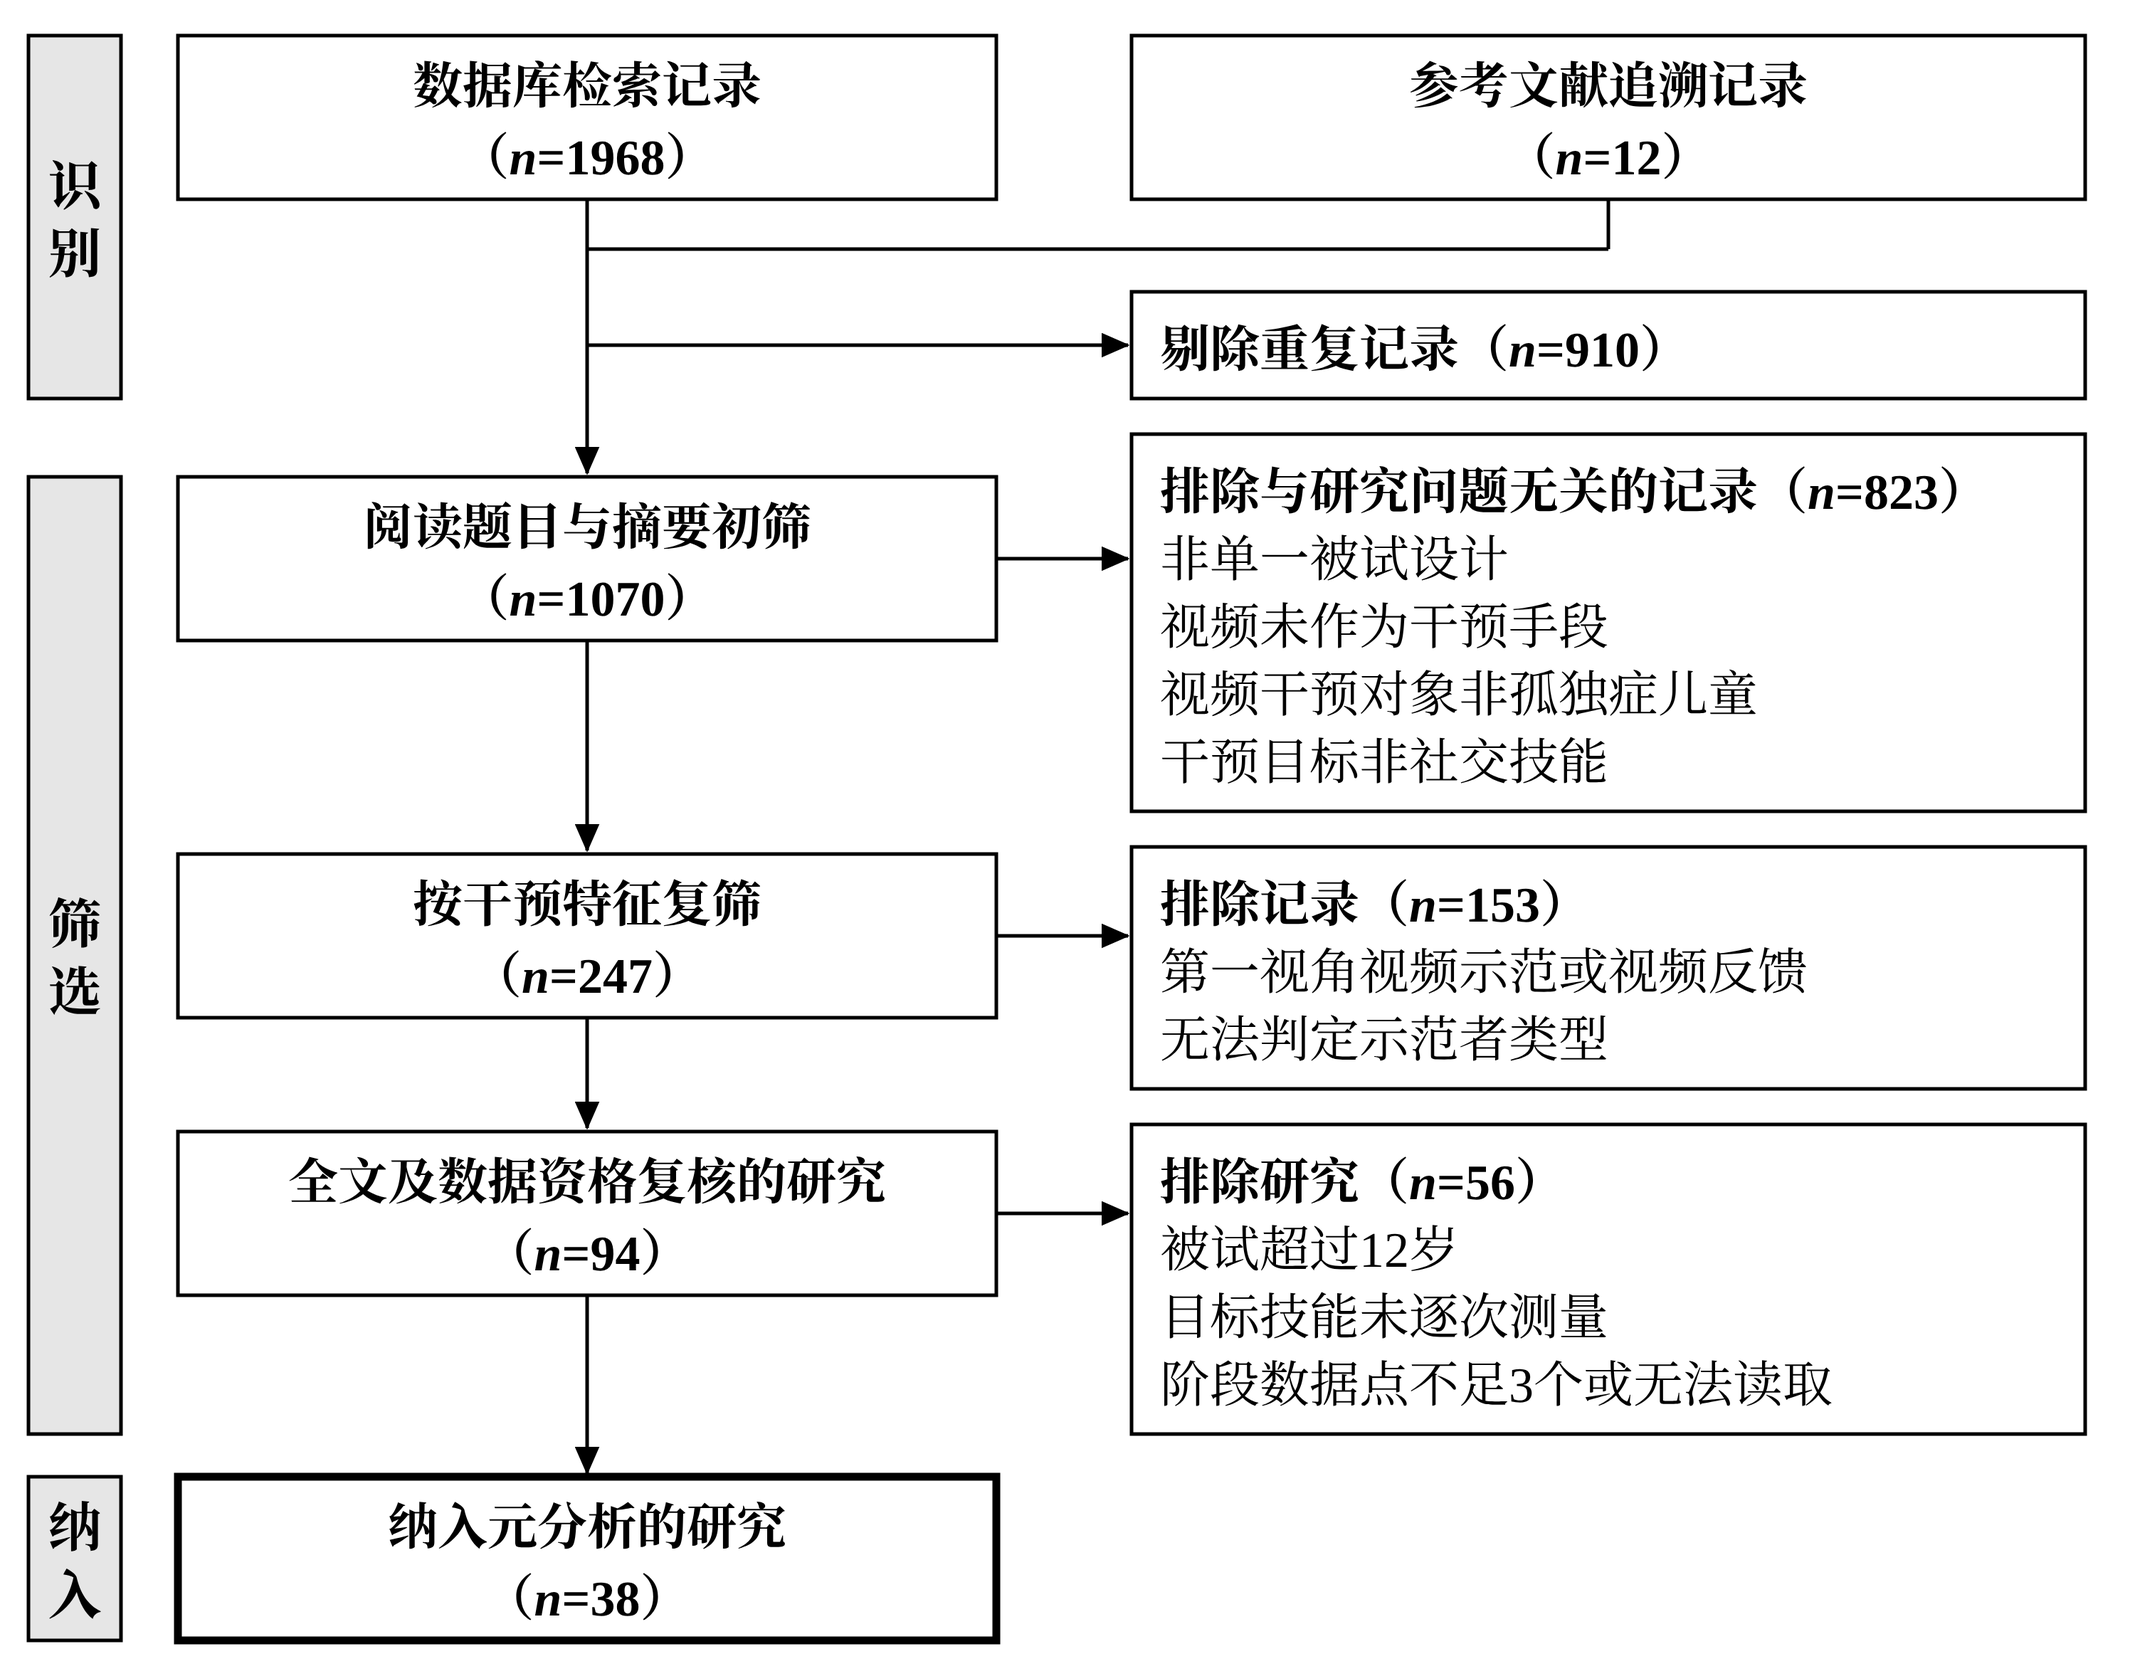
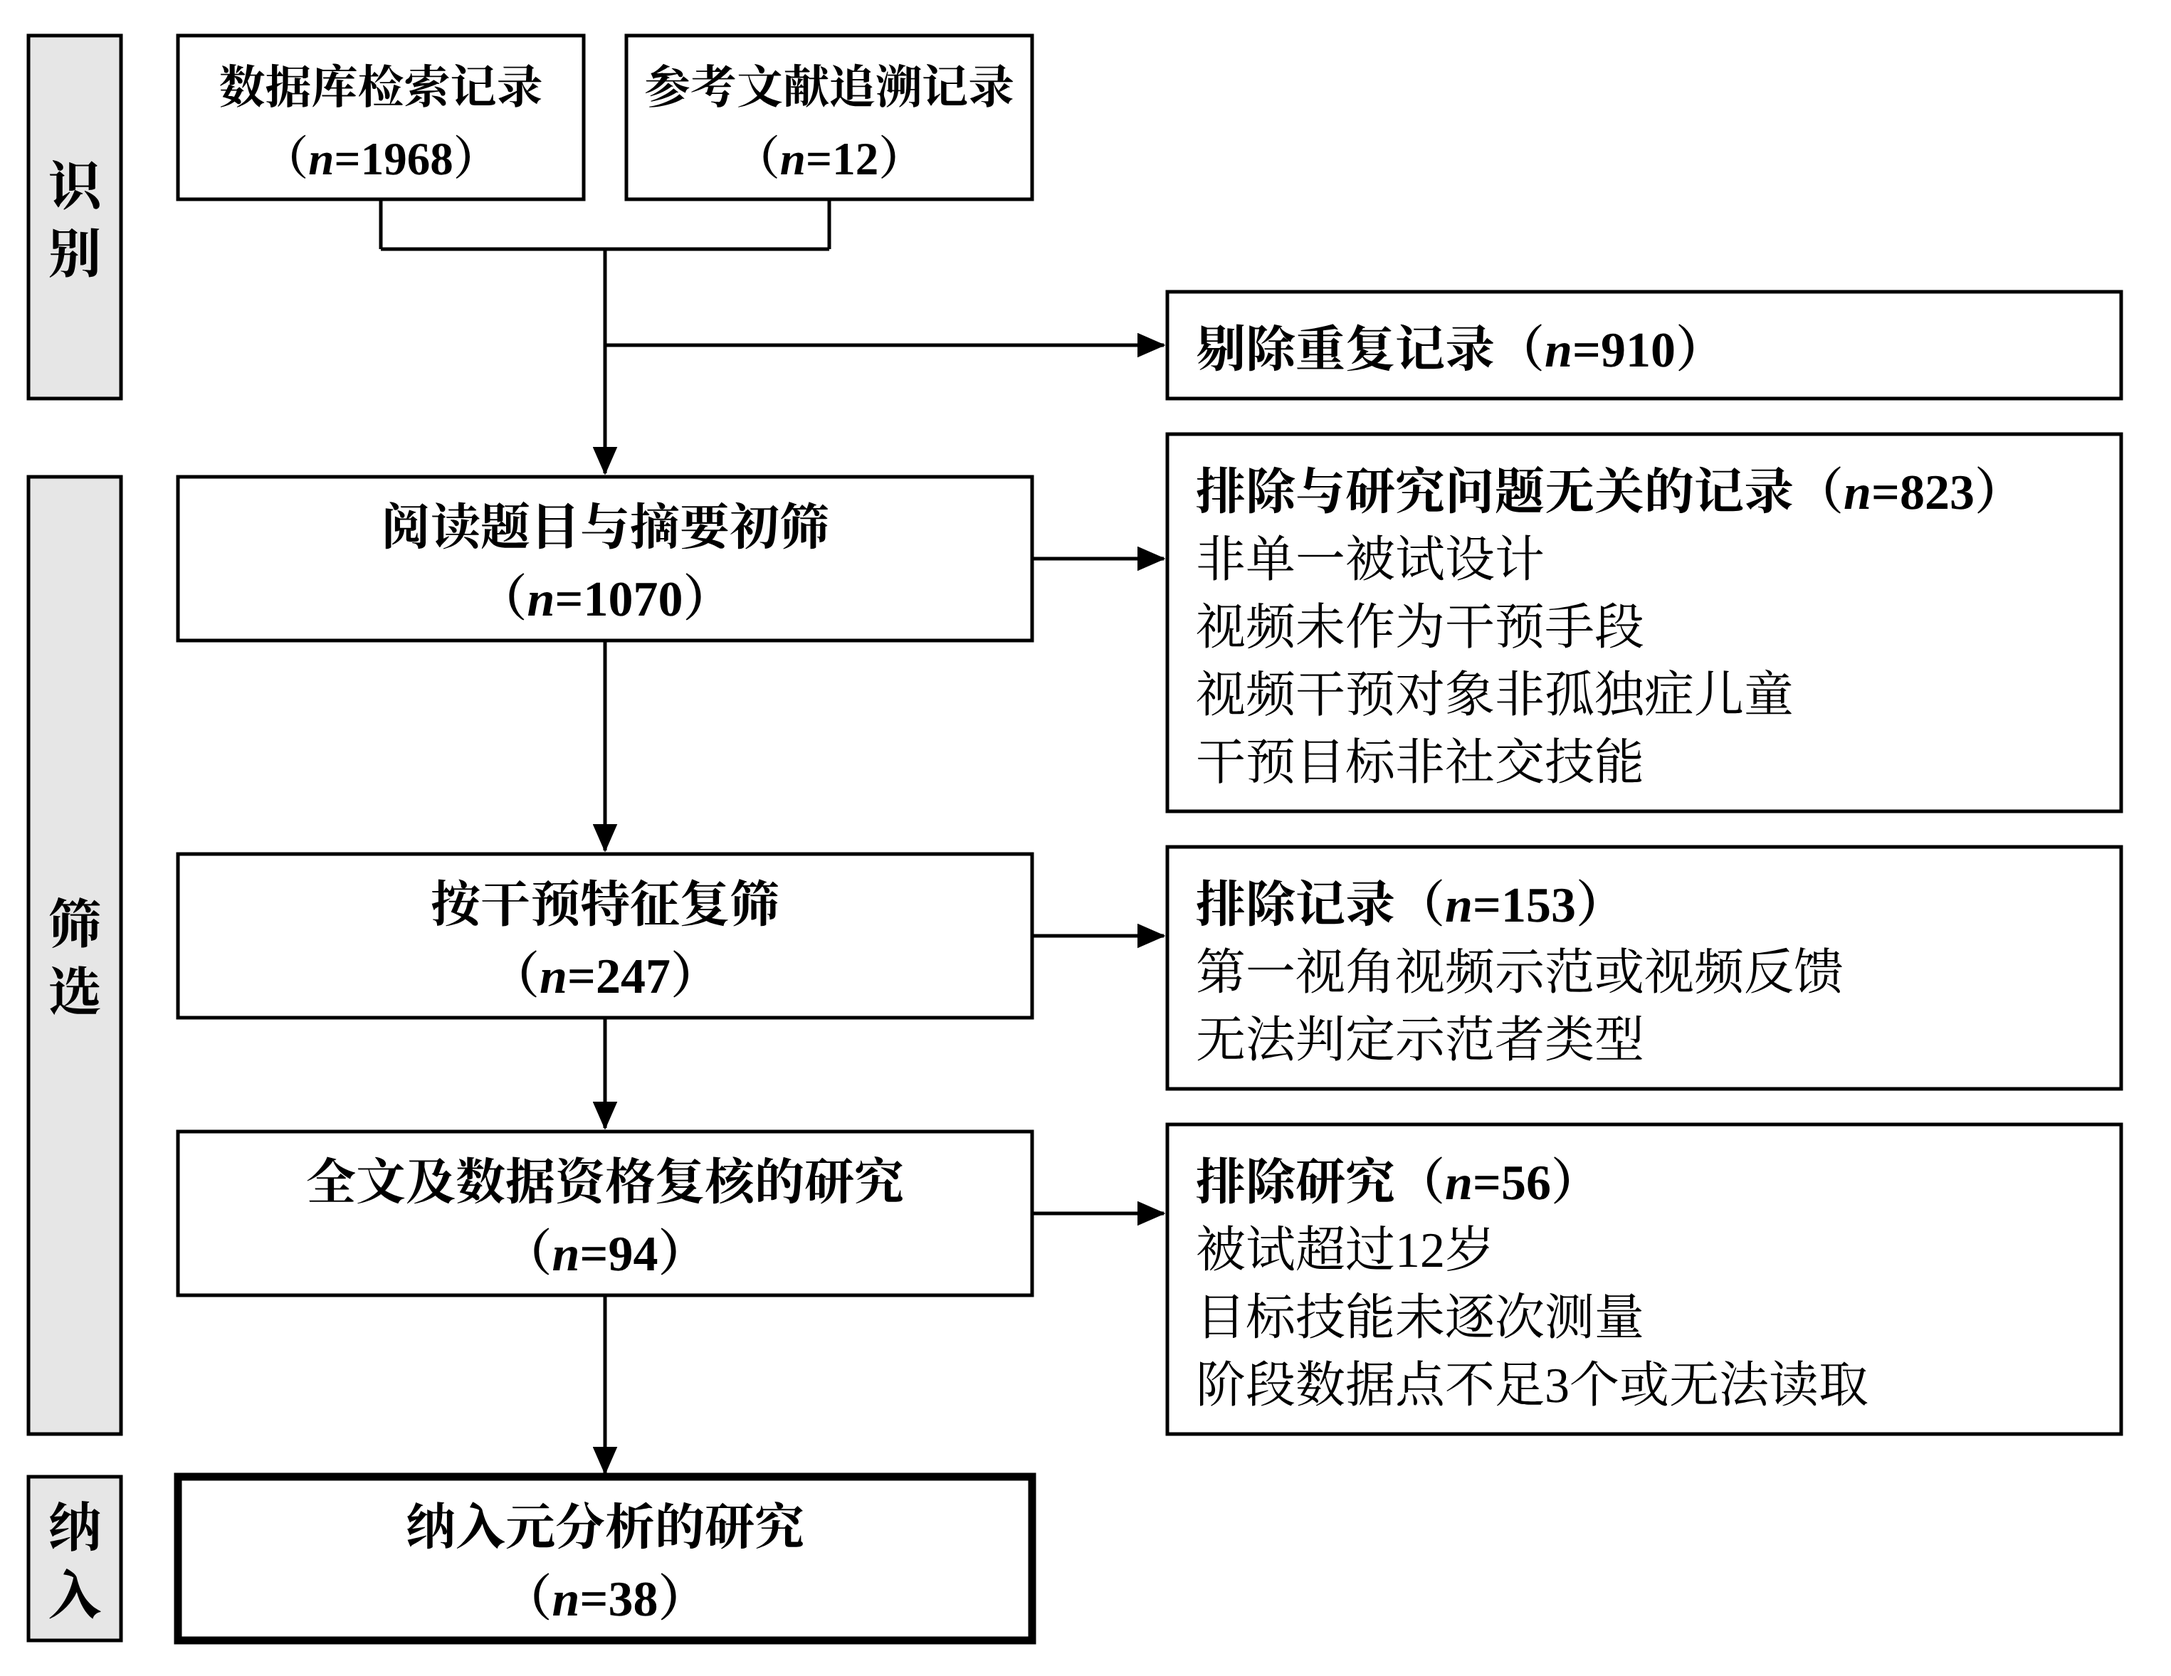
Place both source boxes side by side in main column
Claude-Session: https://claude.ai/code/session_01EqCS8pdH5dXcLV7bqheSma

diff --git a/文献筛选流程图/流程图.html b/文献筛选流程图/流程图.html
@@ -1,9 +1,10 @@
 <!doctype html>
 <html><head><meta charset="utf-8"><title>文献筛选流程图</title><style>body{margin:0;background:#fff}</style></head><body>
-<svg id="fig" width="600" height="471" viewBox="0 0 600 471" xmlns="http://www.w3.org/2000/svg">
+<svg id="fig" width="610" height="471" viewBox="0 0 610 471" xmlns="http://www.w3.org/2000/svg">
 <style>
   text{font-family:"Times New Roman","Liberation Serif","SimSun","宋体","Noto Serif CJK SC",serif;font-size:14px;fill:#000}
   text.b{font-weight:bold}
+  text.sm{font-size:13px}
   text.st{font-weight:bold;font-size:15px}
   .box{fill:#fff;stroke:#000;stroke-width:1}
   .thick{stroke-width:2.2}
@@ -12,53 +13,53 @@
   .ln{marker-end:url(#ar)}
 </style>
 <defs><marker id="ar" markerUnits="userSpaceOnUse" markerWidth="8" markerHeight="7" refX="7.5" refY="3.5" orient="auto"><path d="M0,0 L8,3.5 L0,7 z" fill="#000"/></marker></defs>
-<rect width="600" height="471" fill="#fff"/>
-<rect class="box" x="50" y="10" width="230" height="46"/>
-<text class="b" x="165.0" y="29" text-anchor="middle">数据库检索记录</text>
-<text class="b" x="165.0" y="49" text-anchor="middle">（<tspan font-style="italic">n</tspan>=<tspan>1968</tspan>）</text>
-<rect class="box" x="318" y="10" width="268" height="46"/>
-<text class="b" x="452.0" y="29" text-anchor="middle">参考文献追溯记录</text>
-<text class="b" x="452.0" y="49" text-anchor="middle">（<tspan font-style="italic">n</tspan>=<tspan>12</tspan>）</text>
-<line class="ln0" x1="165.0" y1="56" x2="165.0" y2="70"/>
-<line class="ln0" x1="452.0" y1="56" x2="452.0" y2="70"/>
-<line class="ln0" x1="452.0" y1="70" x2="165.0" y2="70"/>
-<rect class="box" x="318" y="82" width="268" height="30"/>
-<text class="b" x="326" y="103" text-anchor="start">剔除重复记录（<tspan font-style="italic">n</tspan>=<tspan>910</tspan>）</text>
-<line class="ln" x1="165.0" y1="97.0" x2="317" y2="97.0"/>
-<line class="ln" x1="165.0" y1="70" x2="165.0" y2="133"/>
-<rect class="box" x="50" y="134" width="230" height="46"/>
-<text class="b" x="165.0" y="153" text-anchor="middle">阅读题目与摘要初筛</text>
-<text class="b" x="165.0" y="173" text-anchor="middle">（<tspan font-style="italic">n</tspan>=<tspan>1070</tspan>）</text>
-<rect class="box" x="318" y="122" width="268" height="106"/>
-<text class="b" x="326" y="143" text-anchor="start">排除与研究问题无关的记录（<tspan font-style="italic">n</tspan>=<tspan>823</tspan>）</text>
-<text class="" x="326" y="162" text-anchor="start">非单一被试设计</text>
-<text class="" x="326" y="181" text-anchor="start">视频未作为干预手段</text>
-<text class="" x="326" y="200" text-anchor="start">视频干预对象非孤独症儿童</text>
-<text class="" x="326" y="219" text-anchor="start">干预目标非社交技能</text>
-<line class="ln" x1="280" y1="157.0" x2="317" y2="157.0"/>
-<line class="ln" x1="165.0" y1="180" x2="165.0" y2="239"/>
-<rect class="box" x="50" y="240" width="230" height="46"/>
-<text class="b" x="165.0" y="259" text-anchor="middle">按干预特征复筛</text>
-<text class="b" x="165.0" y="279" text-anchor="middle">（<tspan font-style="italic">n</tspan>=<tspan>247</tspan>）</text>
-<rect class="box" x="318" y="238" width="268" height="68"/>
-<text class="b" x="326" y="259" text-anchor="start">排除记录（<tspan font-style="italic">n</tspan>=<tspan>153</tspan>）</text>
-<text class="" x="326" y="278" text-anchor="start">第一视角视频示范或视频反馈</text>
-<text class="" x="326" y="297" text-anchor="start">无法判定示范者类型</text>
-<line class="ln" x1="280" y1="263.0" x2="317" y2="263.0"/>
-<line class="ln" x1="165.0" y1="286" x2="165.0" y2="317"/>
-<rect class="box" x="50" y="318" width="230" height="46"/>
-<text class="b" x="165.0" y="337" text-anchor="middle">全文及数据资格复核的研究</text>
-<text class="b" x="165.0" y="357" text-anchor="middle">（<tspan font-style="italic">n</tspan>=<tspan>94</tspan>）</text>
-<rect class="box" x="318" y="316" width="268" height="87"/>
-<text class="b" x="326" y="337" text-anchor="start">排除研究（<tspan font-style="italic">n</tspan>=<tspan>56</tspan>）</text>
-<text class="" x="326" y="356" text-anchor="start">被试超过12岁</text>
-<text class="" x="326" y="375" text-anchor="start">目标技能未逐次测量</text>
-<text class="" x="326" y="394" text-anchor="start">阶段数据点不足3个或无法读取</text>
-<line class="ln" x1="280" y1="341.0" x2="317" y2="341.0"/>
-<line class="ln" x1="165.0" y1="364" x2="165.0" y2="414"/>
-<rect class="box thick" x="50" y="415" width="230" height="46"/>
-<text class="b" x="165.0" y="434" text-anchor="middle">纳入元分析的研究</text>
-<text class="b" x="165.0" y="454" text-anchor="middle">（<tspan font-style="italic">n</tspan>=<tspan>38</tspan>）</text>
+<rect width="610" height="471" fill="#fff"/>
+<rect class="box" x="50" y="10" width="114.0" height="46"/>
+<text class="b sm" x="107.0" y="29" text-anchor="middle">数据库检索记录</text>
+<text class="b sm" x="107.0" y="49" text-anchor="middle">（<tspan font-style="italic">n</tspan>=<tspan>1968</tspan>）</text>
+<rect class="box" x="176.0" y="10" width="114.0" height="46"/>
+<text class="b sm" x="233.0" y="29" text-anchor="middle">参考文献追溯记录</text>
+<text class="b sm" x="233.0" y="49" text-anchor="middle">（<tspan font-style="italic">n</tspan>=<tspan>12</tspan>）</text>
+<line class="ln0" x1="107.0" y1="56" x2="107.0" y2="70"/>
+<line class="ln0" x1="233.0" y1="56" x2="233.0" y2="70"/>
+<line class="ln0" x1="107.0" y1="70" x2="233.0" y2="70"/>
+<rect class="box" x="328" y="82" width="268" height="30"/>
+<text class="b" x="336" y="103" text-anchor="start">剔除重复记录（<tspan font-style="italic">n</tspan>=<tspan>910</tspan>）</text>
+<line class="ln" x1="170.0" y1="97.0" x2="327" y2="97.0"/>
+<line class="ln" x1="170.0" y1="70" x2="170.0" y2="133"/>
+<rect class="box" x="50" y="134" width="240" height="46"/>
+<text class="b" x="170.0" y="153" text-anchor="middle">阅读题目与摘要初筛</text>
+<text class="b" x="170.0" y="173" text-anchor="middle">（<tspan font-style="italic">n</tspan>=<tspan>1070</tspan>）</text>
+<rect class="box" x="328" y="122" width="268" height="106"/>
+<text class="b" x="336" y="143" text-anchor="start">排除与研究问题无关的记录（<tspan font-style="italic">n</tspan>=<tspan>823</tspan>）</text>
+<text class="" x="336" y="162" text-anchor="start">非单一被试设计</text>
+<text class="" x="336" y="181" text-anchor="start">视频未作为干预手段</text>
+<text class="" x="336" y="200" text-anchor="start">视频干预对象非孤独症儿童</text>
+<text class="" x="336" y="219" text-anchor="start">干预目标非社交技能</text>
+<line class="ln" x1="290" y1="157.0" x2="327" y2="157.0"/>
+<line class="ln" x1="170.0" y1="180" x2="170.0" y2="239"/>
+<rect class="box" x="50" y="240" width="240" height="46"/>
+<text class="b" x="170.0" y="259" text-anchor="middle">按干预特征复筛</text>
+<text class="b" x="170.0" y="279" text-anchor="middle">（<tspan font-style="italic">n</tspan>=<tspan>247</tspan>）</text>
+<rect class="box" x="328" y="238" width="268" height="68"/>
+<text class="b" x="336" y="259" text-anchor="start">排除记录（<tspan font-style="italic">n</tspan>=<tspan>153</tspan>）</text>
+<text class="" x="336" y="278" text-anchor="start">第一视角视频示范或视频反馈</text>
+<text class="" x="336" y="297" text-anchor="start">无法判定示范者类型</text>
+<line class="ln" x1="290" y1="263.0" x2="327" y2="263.0"/>
+<line class="ln" x1="170.0" y1="286" x2="170.0" y2="317"/>
+<rect class="box" x="50" y="318" width="240" height="46"/>
+<text class="b" x="170.0" y="337" text-anchor="middle">全文及数据资格复核的研究</text>
+<text class="b" x="170.0" y="357" text-anchor="middle">（<tspan font-style="italic">n</tspan>=<tspan>94</tspan>）</text>
+<rect class="box" x="328" y="316" width="268" height="87"/>
+<text class="b" x="336" y="337" text-anchor="start">排除研究（<tspan font-style="italic">n</tspan>=<tspan>56</tspan>）</text>
+<text class="" x="336" y="356" text-anchor="start">被试超过12岁</text>
+<text class="" x="336" y="375" text-anchor="start">目标技能未逐次测量</text>
+<text class="" x="336" y="394" text-anchor="start">阶段数据点不足3个或无法读取</text>
+<line class="ln" x1="290" y1="341.0" x2="327" y2="341.0"/>
+<line class="ln" x1="170.0" y1="364" x2="170.0" y2="414"/>
+<rect class="box thick" x="50" y="415" width="240" height="46"/>
+<text class="b" x="170.0" y="434" text-anchor="middle">纳入元分析的研究</text>
+<text class="b" x="170.0" y="454" text-anchor="middle">（<tspan font-style="italic">n</tspan>=<tspan>38</tspan>）</text>
 <rect class="stage" x="8" y="10" width="26" height="102"/>
 <text class="st" x="21.0" y="57.5" text-anchor="middle">识</text>
 <text class="st" x="21.0" y="76.5" text-anchor="middle">别</text>
